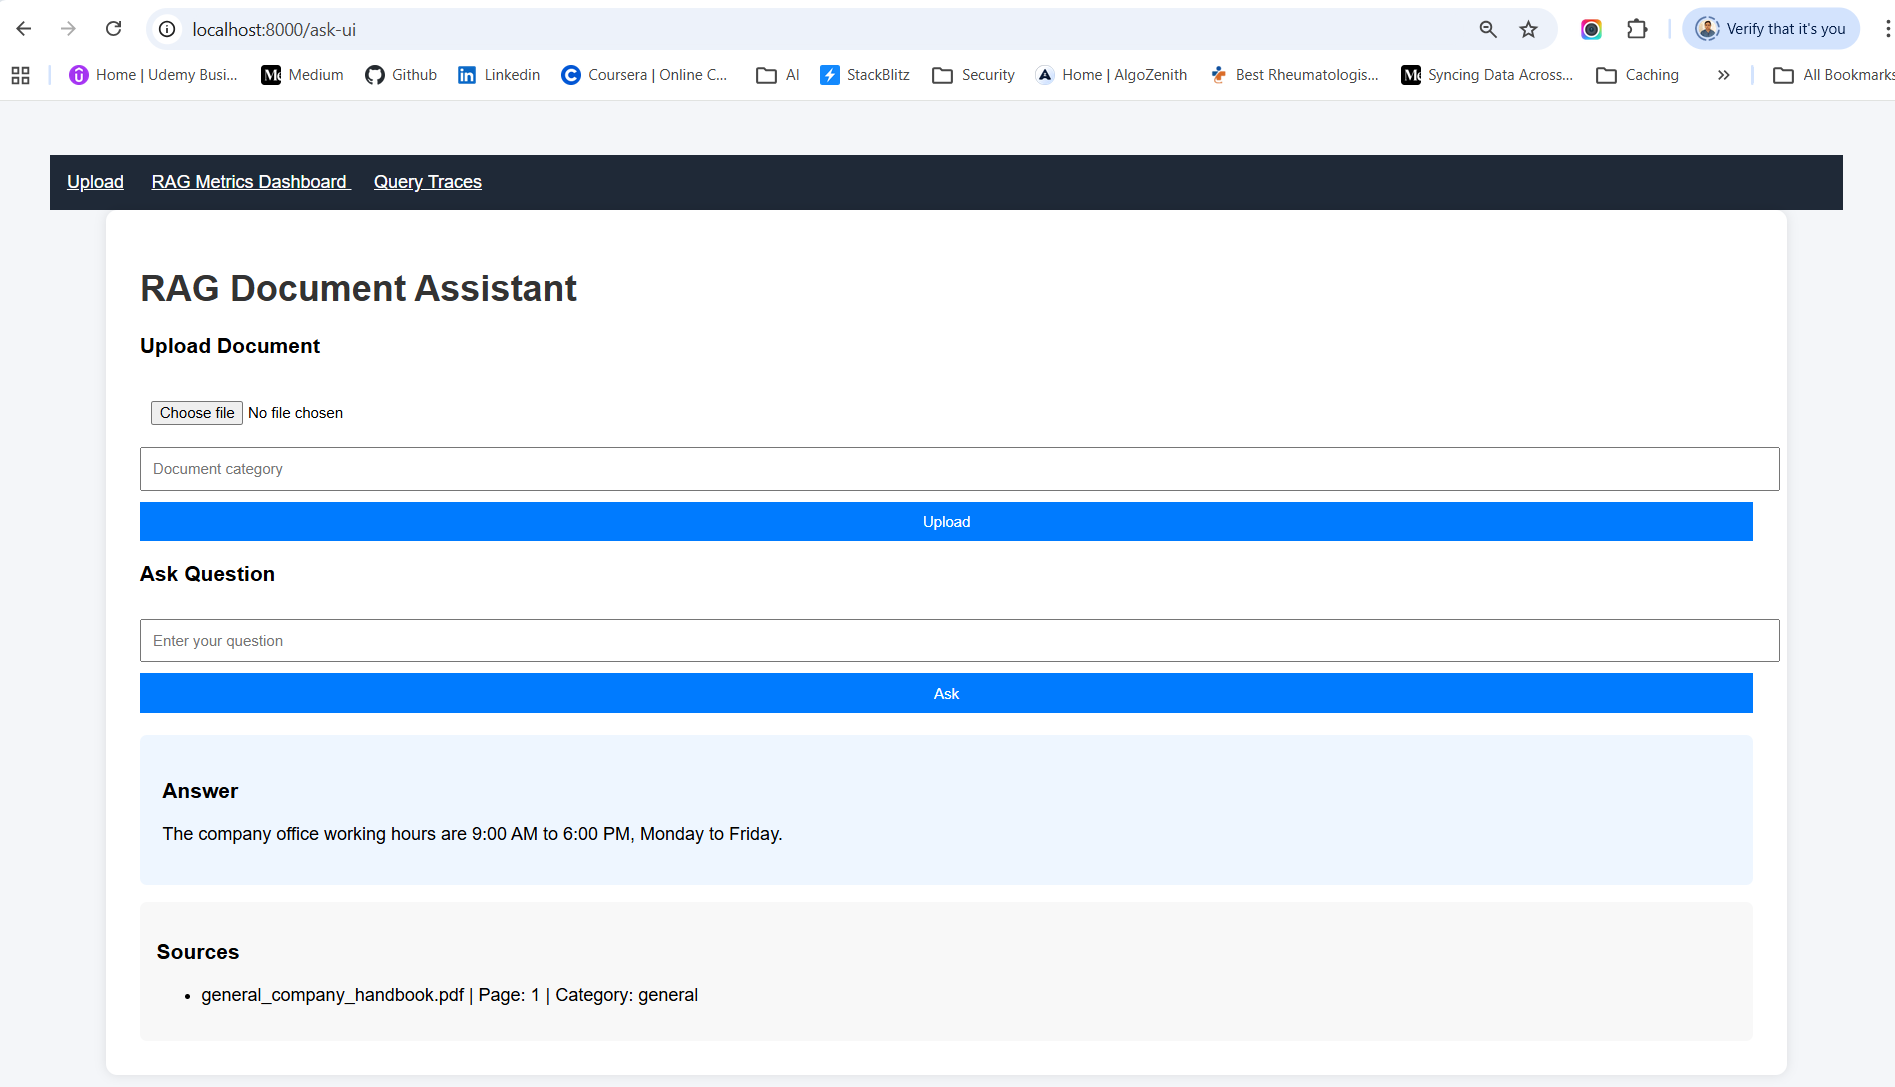
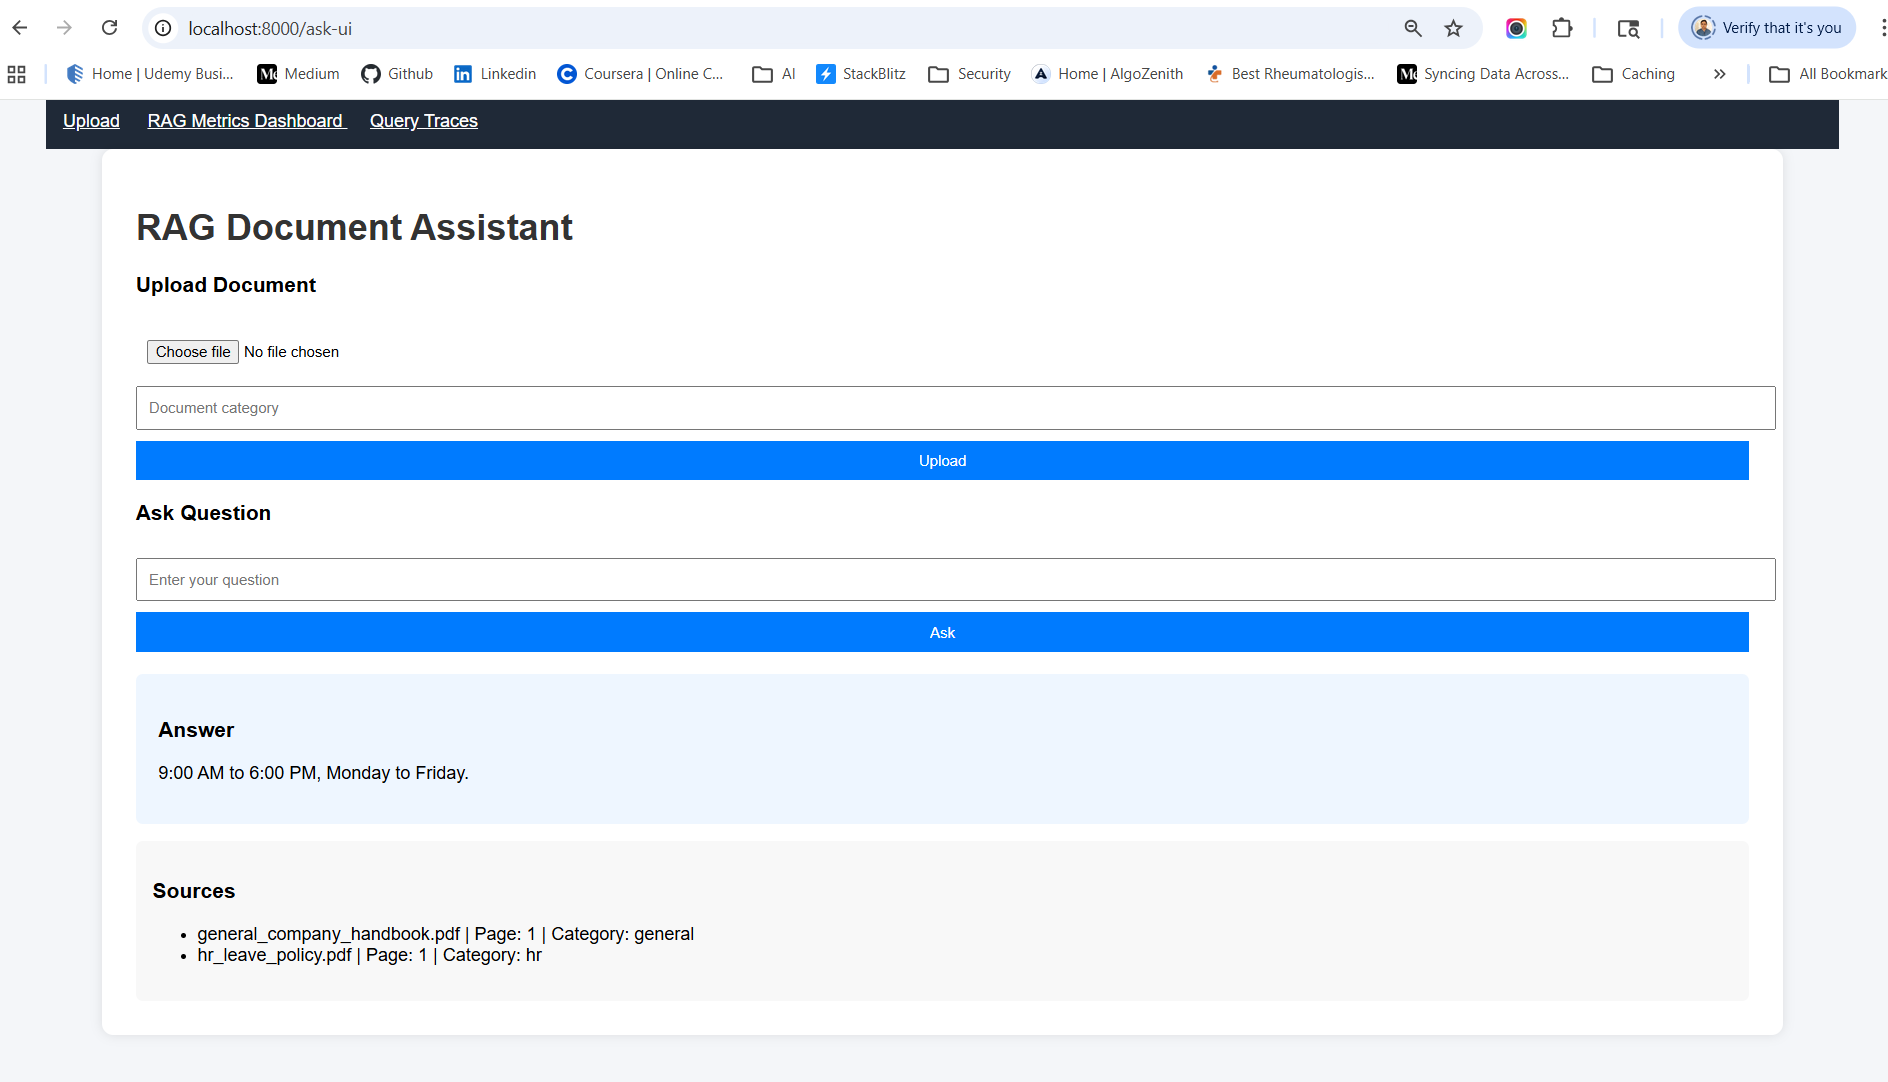
Rag-LLM-Evaluation-gemma2b

diff --git a/Rag-LLM-Evaluation-gemma2b/app/main.py b/Rag-LLM-Evaluation-gemma2b/app/main.py
@@ -105,7 +105,7 @@ def get_embeddings():
 def get_llm():
 
     return OllamaLLM(
-        model="phi3",
+        model="gemma2:2b",
         base_url=OLLAMA_BASE_URL,
         temperature=0
     )

diff --git a/Rag-LLM-Evaluation-llama3/README.md b/Rag-LLM-Evaluation-llama3/README.md
@@ -24,6 +24,44 @@ RAG evaluation measures how well a Retrieval-Augmented Generation system perform
 
 <img src="imgs/Enterprise RAG platform architecture.png" width="70%">
 
+## 📊 Comparing Your Tested Models
+
+Based on all your dashboards so far:
+
+| Model        | Faithfulness | Hallucination | Latency | Overall        |
+| ------------ | ------------ | ------------- | ------- | -------------- |
+| Phi-3        | ⭐0.72        | ⭐0.21         | ⭐10s    | ⭐ Best         |
+| Llama-3.2 3B | 0.71         | 0.21          | ❌30s    | Good but slow  |
+| Gemma-2B     | ❌0.54        | ❌0.39         | ⭐9s     | Weak reasoning |
+
+## ⭐ My Recommendation for Your Final Benchmark
+
+Run 4 models in your leaderboard:
+
+- phi3
+- llama3.2:3b
+- gemma:2b
+- mistral (if RAM allows)
+
+Then your dashboard becomes a true RAG model benchmark system.
+
+## 📊 Your Gemma-2B RAG Results
+
+| Metric            | Value      | Meaning                           |
+| ----------------- | ---------- | --------------------------------- |
+| Faithfulness      | **0.544**  | How grounded answer is in context |
+| Answer Relevancy  | **0.547**  | Answer matches the question       |
+| Context Precision | **1.0**    | Retriever returned correct chunks |
+| Context Recall    | **0.664**  | Enough relevant docs retrieved    |
+| Answer Similarity | **0.555**  | Similarity to expected answer     |
+| Context Coverage  | **0.555**  | Context used in answer            |
+| Retrieval Score   | **0.603**  | Retrieval quality                 |
+| Hallucination     | **0.397**  | Lower is better                   |
+| Latency           | **8.96 s** | Response speed                    |
+| Tokens            | **15**     | Response length                   |
+
+
+
 ## Run Application
 1. Install Docker & Run Docker Desktop first
 2. Inside application folder (Rag-LLM-Evaluation), open gitbash or cmd to run the command following command. requirements.txt file should be on the same path.
@@ -42,7 +80,7 @@ docker compose up
 3. From your project root:
 open new gitbash or cmd to run the command following command.
 ```
-docker exec -it ollama ollama pull llama3.2:3b
+docker exec -it ollama ollama pull gemma2:2b
 docker exec -it ollama ollama pull nomic-embed-text
 ```
 Wait until both models download completely.
